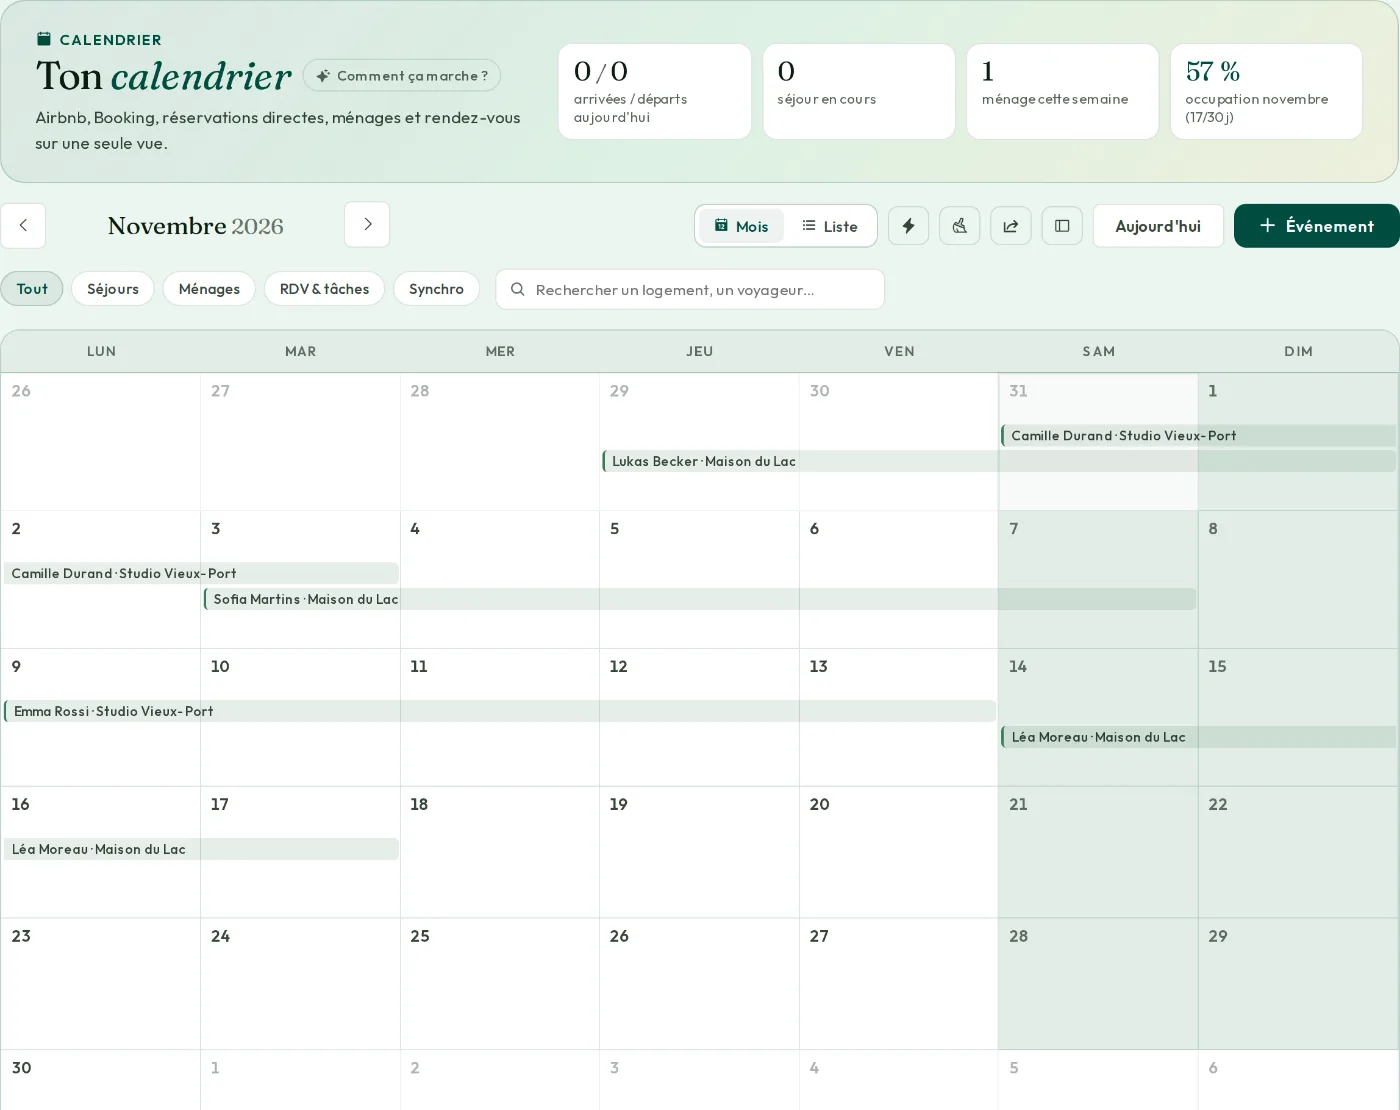
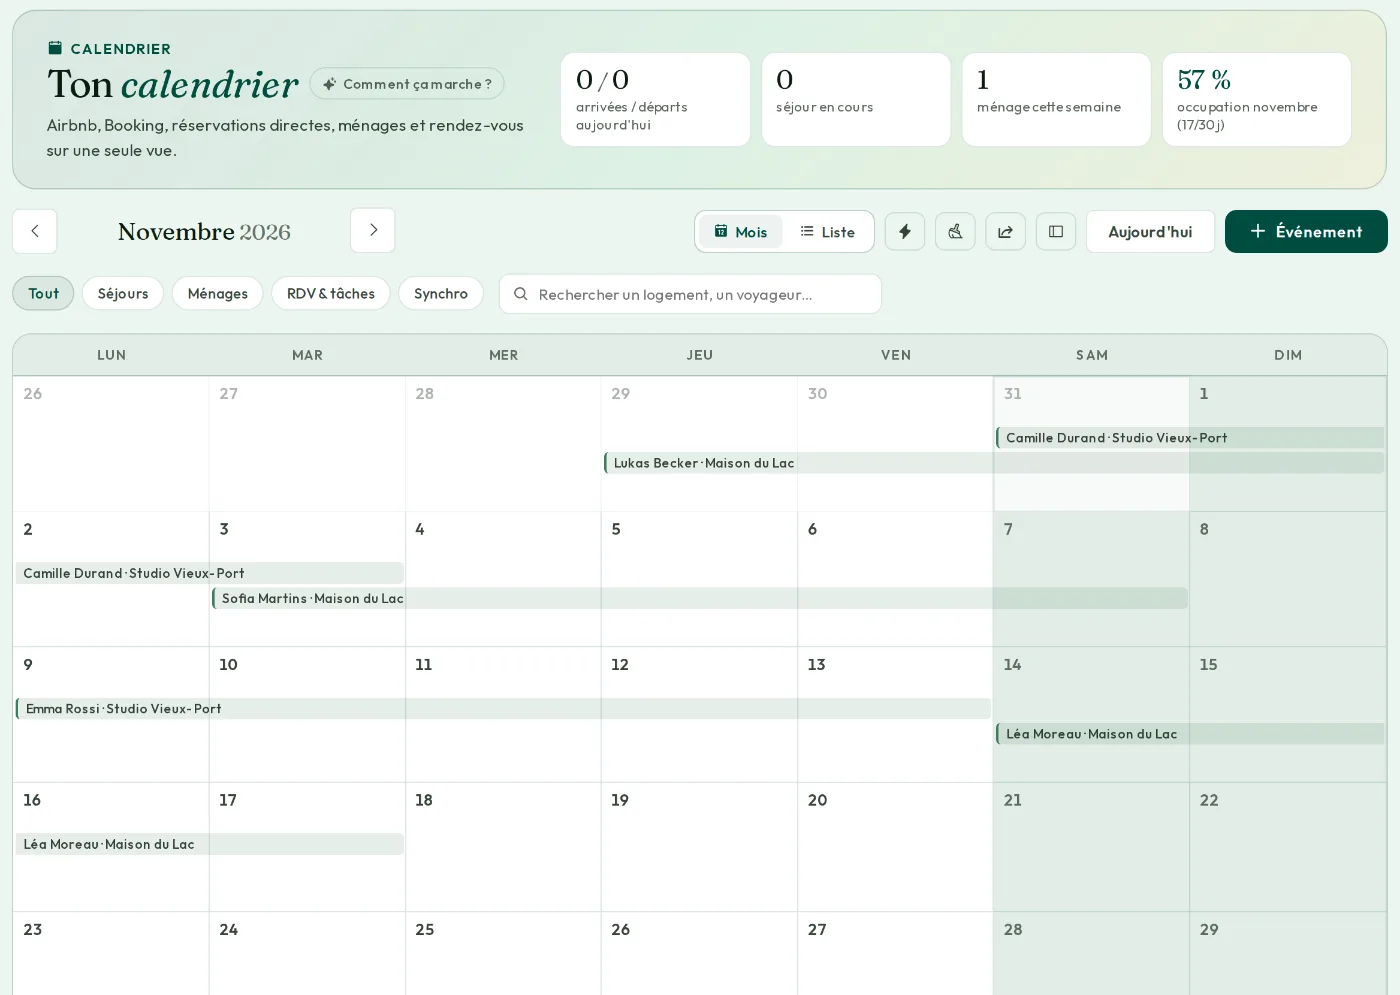
Accueil : les pastilles de la carte Gérer changent la capture sur place (6 écrans)
Claude-Session: https://claude.ai/code/session_01QV1sXoMQHouA2uJbJTNy1m

diff --git a/index.html b/index.html
@@ -144,6 +144,15 @@ button,a,input,summary{-webkit-tap-highlight-color:transparent}
 .flow i{font-style:normal;width:26px;height:26px;border-radius:50%;background:var(--y);color:var(--gd);font-size:13px;font-weight:600;display:flex;align-items:center;justify-content:center}
 .shots{display:grid;grid-template-columns:1.4fr 1fr;gap:10px;align-items:start;margin:4px 0}
 .shots img{width:100%;height:auto;display:block;border-radius:14px;border:1px solid rgba(255,255,255,.18);box-shadow:0 14px 34px rgba(0,0,0,.22);background:#EEF4EF}
+.shot-tabs{flex-wrap:nowrap;overflow-x:auto}
+.c1 .shot-tabs button{flex:none;padding:8px 12px;border-radius:99px;background:rgba(255,255,255,.1);border:1px solid rgba(255,255,255,.18);font-family:inherit;font-size:13.5px;color:#fff;cursor:pointer;white-space:nowrap}
+.c1 .shot-tabs button:hover{background:rgba(255,255,255,.16)}
+.c1 .shot-tabs button[aria-selected="true"]{background:var(--y);border-color:var(--y);color:var(--gd);font-weight:600}
+.shot{display:flex;flex-direction:column;gap:10px}
+.shot[hidden]{display:none}
+.shot img{width:100%;height:auto;display:block;border-radius:14px;border:1px solid rgba(255,255,255,.18);box-shadow:0 14px 34px rgba(0,0,0,.22);background:#EEF4EF}
+.shot figcaption a{font-size:13.5px;color:rgba(255,255,255,.8);text-decoration:none}
+.shot figcaption a:hover{color:#fff;text-decoration:underline}
 .chips{display:flex;flex-wrap:wrap;gap:8px}
 .c1 .chips a{padding:8px 12px;border-radius:99px;background:rgba(255,255,255,.1);border:1px solid rgba(255,255,255,.18);font-size:13.5px;color:#fff;text-decoration:none}
 .c1 .chips a:hover{background:rgba(255,255,255,.16)}
@@ -296,8 +305,7 @@ button,a,input,summary{-webkit-tap-highlight-color:transparent}
   .h2{font-size:32px}
   .c1,.bl-une,.pa,.me-t{padding:24px 20px}
   .c1 .c-h{font-size:27px}
-  .shots{grid-template-columns:1fr}
-  .shots img+img{display:none}
+  .c1 .shot-tabs{margin-right:-20px;padding-right:20px}
   .flow div{flex-direction:row;align-items:center}
   .bl-une{min-height:0}
   .bl-une .c-h{font-size:27px}
@@ -401,13 +409,8 @@ button,a,input,summary{-webkit-tap-highlight-color:transparent}
 <span class="c-eyb" style="color:var(--y)">01 · Gérer</span>
 <h3 class="c-h">Ton espace hôte se met à jour tout seul.</h3>
 <p>Relie ton calendrier Airbnb ou Booking : tes réservations arrivent seules, tes ménages se planifient, et contrats et fiches de police sont prêts quand il le faut.</p>
-<div class="shots">
-<img src="/img/accueil/hote-voyageurs.webp" alt="Le carnet de voyageurs de l’espace hôte, avec des voyageurs fictifs" width="1400" height="1018" loading="lazy" decoding="async">
-<img src="/img/accueil/hote-calendrier.webp" alt="Le calendrier de l’espace hôte, avec des séjours fictifs" width="1400" height="1110" loading="lazy" decoding="async">
-</div>
-<div class="chips">
-<a href="/services/carnet-voyageurs">Carnet de voyageurs</a><a href="/services/calendrier">Calendrier</a><a href="/services/planning-menage">Planning ménage</a><a href="/services/contrats">Contrats et cautions</a><a href="/services/declarations-voyageurs">Fiches de police</a><a href="/services/simulateurs">Simulateurs</a>
-</div>
+<div class="chips shot-tabs hs" role="tablist" aria-label="Écrans de l’espace hôte"><button type="button" role="tab" id="sh-t-voyageurs" aria-controls="sh-voyageurs" aria-selected="true" data-shot="voyageurs">Carnet de voyageurs</button><button type="button" role="tab" id="sh-t-calendrier" aria-controls="sh-calendrier" aria-selected="false" data-shot="calendrier">Calendrier</button><button type="button" role="tab" id="sh-t-menage" aria-controls="sh-menage" aria-selected="false" data-shot="menage">Planning ménage</button><button type="button" role="tab" id="sh-t-contrats" aria-controls="sh-contrats" aria-selected="false" data-shot="contrats">Contrats et cautions</button><button type="button" role="tab" id="sh-t-declarations" aria-controls="sh-declarations" aria-selected="false" data-shot="declarations">Fiches de police</button><button type="button" role="tab" id="sh-t-simulateurs" aria-controls="sh-simulateurs" aria-selected="false" data-shot="simulateurs">Simulateurs</button></div>
+<div class="shot-box"><figure class="shot" role="tabpanel" id="sh-voyageurs" aria-labelledby="sh-t-voyageurs"><img src="/img/accueil/hote-voyageurs.webp" alt="Le carnet de voyageurs : coordonnées, séjours, nationalité, avec des données fictives" width="1400" height="995" loading="lazy" decoding="async"><figcaption><a href="/services/carnet-voyageurs">En savoir plus : carnet de voyageurs →</a></figcaption></figure><figure class="shot" role="tabpanel" id="sh-calendrier" aria-labelledby="sh-t-calendrier" hidden><img src="/img/accueil/hote-calendrier.webp" alt="Le calendrier : Airbnb, Booking et réservations directes sur une seule vue, avec des données fictives" width="1400" height="995" loading="lazy" decoding="async"><figcaption><a href="/services/calendrier">En savoir plus : calendrier →</a></figcaption></figure><figure class="shot" role="tabpanel" id="sh-menage" aria-labelledby="sh-t-menage" hidden><img src="/img/accueil/hote-menage.webp" alt="Le planning ménage, créé à chaque départ et partagé avec ton équipe, avec des données fictives" width="1400" height="995" loading="lazy" decoding="async"><figcaption><a href="/services/planning-menage">En savoir plus : planning ménage →</a></figcaption></figure><figure class="shot" role="tabpanel" id="sh-contrats" aria-labelledby="sh-t-contrats" hidden><img src="/img/accueil/hote-contrats.webp" alt="Les contrats signés en ligne, le loyer et la caution, avec des données fictives" width="1400" height="995" loading="lazy" decoding="async"><figcaption><a href="/services/contrats">En savoir plus : contrats et cautions →</a></figcaption></figure><figure class="shot" role="tabpanel" id="sh-declarations" aria-labelledby="sh-t-declarations" hidden><img src="/img/accueil/hote-declarations.webp" alt="Les fiches de police préparées pour les voyageurs étrangers, avec des données fictives" width="1400" height="995" loading="lazy" decoding="async"><figcaption><a href="/services/declarations-voyageurs">En savoir plus : fiches de police →</a></figcaption></figure><figure class="shot" role="tabpanel" id="sh-simulateurs" aria-labelledby="sh-t-simulateurs" hidden><img src="/img/accueil/hote-simulateurs.webp" alt="Les simulateurs : fiscalité, statut, rentabilité, taxe de séjour, avec des données fictives" width="1400" height="995" loading="lazy" decoding="async"><figcaption><a href="/services/simulateurs">En savoir plus : simulateurs →</a></figcaption></figure></div>
 <a href="https://app.jasonmarinho.com/auth/register" class="btn btn-y">Créer mon compte gratuit</a>
 </article>
 <div class="col">
@@ -590,6 +593,17 @@ button,a,input,summary{-webkit-tap-highlight-color:transparent}
   });
   ville.addEventListener('input',maj);
   ville.addEventListener('keydown',function(e){if(e.key==='Enter'){e.preventDefault();location.href=go.href}});
+
+  // Carte Gérer : les pastilles changent la capture sur place
+  var sts=document.querySelectorAll('[data-shot]');
+  sts.forEach(function(t){
+    t.addEventListener('click',function(){
+      sts.forEach(function(x){var on=x===t;x.setAttribute('aria-selected',on?'true':'false');document.getElementById('sh-'+x.getAttribute('data-shot')).hidden=!on});
+    });
+  });
+  // Les autres captures se chargent quand la carte approche de l'écran
+  var box2=document.querySelector('.shot-box');
+  if(box2&&'IntersectionObserver' in window){var io=new IntersectionObserver(function(es){if(es[0].isIntersecting){box2.querySelectorAll('img').forEach(function(i){var p=new Image();p.src=i.src});io.disconnect()}},{rootMargin:'400px'});io.observe(box2)}
 
   // Formations : un thème à la fois
   var tabs=document.querySelectorAll('[data-th]');

diff --git a/docs/claude/seo-partenaires.md b/docs/claude/seo-partenaires.md
@@ -54,7 +54,7 @@ Partie de la documentation interne (index : CLAUDE.md à la racine). Notes déta
 
 - Maquette sur le canevas « Nouvelle page d'accueil » (proposition D). Choix faits d'après les visites des 90 jours (61 % quittent l'accueil sans cliquer, 5 s en médiane, 1er clic vers l'annuaire) : carte « Qu'est-ce qui t'amène ? » à 4 entrées (Trouver un pro ouvert par défaut, 3 métiers, ville → `/trouver-un-pro?metier=&ville=` ; les annuaires n'acceptent pas de ville en paramètre), 3 garanties sous le titre, « Un seul endroit, trois façons » (sans captures de l'espace hôte : 3 étapes à la place), formations sur fond vert (22 cartes dans le code, un thème visible), « Tu es pro ? », questions (`<details>` + FAQPage), Jason (lien suivi vers driing.co), blog, partenaires, lettre du mois.
 - Refus de Jason à respecter : pas de pastille « Nouveau » à tenir à jour, pas de « c'est lui qui te répond », pas de grands numéros ni de jaune dans les formations, pas de liens annuaires dans la carte Trouver, formations mentionnées à un seul endroit.
-- Carte « 01 · Gérer » : vraies captures de l'app (`img/accueil/hote-voyageurs.webp`, `hote-calendrier.webp`, voyageurs fictifs). Faites avec une page temporaire non commitée (`jason-app/app/zz-capture/`) qui affiche `VoyageursView` et `CalendrierView` avec des données inventées, `next dev` avec de fausses variables Supabase, horloge Playwright fixée, conversion WebP dans Chromium. Sur téléphone, seule la première capture s'affiche.
+- Carte « 01 · Gérer » (31/10/2026, Jason : « que les captures bougent au lieu de me rediriger ») : 6 pastilles en onglets (carnet de voyageurs, calendrier, planning ménage, contrats et cautions, fiches de police, simulateurs) qui changent la capture sur place, lien « En savoir plus » vers la page service sous chaque capture. Vraies captures de l'app (`img/accueil/hote-*.webp`, 1400 × 995, données fictives). Faites avec une page temporaire non commitée (`jason-app/app/zz-capture/`) qui affiche `VoyageursView`, `CalendrierView`, `MenageHostView`, `ContratsView`, `DeclarationsView` et `SimulateursUI` avec des données inventées, `next dev` avec de fausses variables Supabase, horloge Playwright fixée, conversion WebP dans Chromium.
 - Bas de page : le bloc newsletter d'avant (« Prêt à te lancer sans prise de vague ? », fond vert) a été remis à la demande de Jason (le blanc « sans prise de tête » ne lui plaisait pas) ; styles limités à `.cta-s`.
 - Blog : `scripts/build-derniers-articles.mjs` réécrit les 3 derniers articles (rss.xml) entre `<!-- DERNIERS-ARTICLES -->` et `<!-- /DERNIERS-ARTICLES -->` à chaque déploiement.
 
